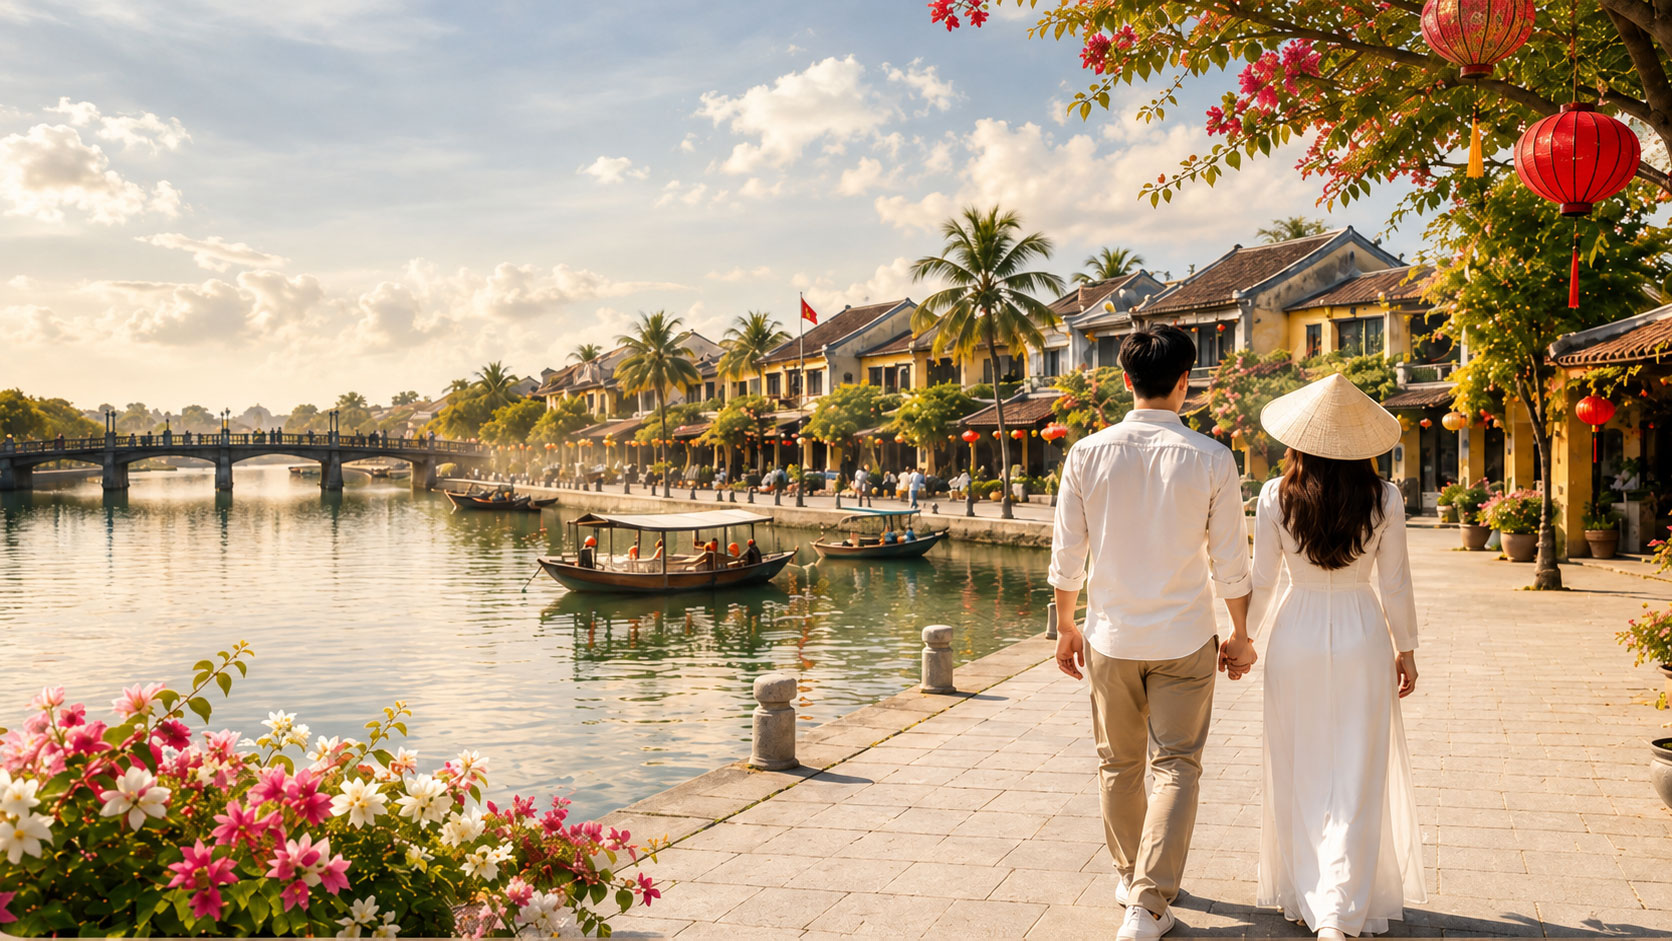
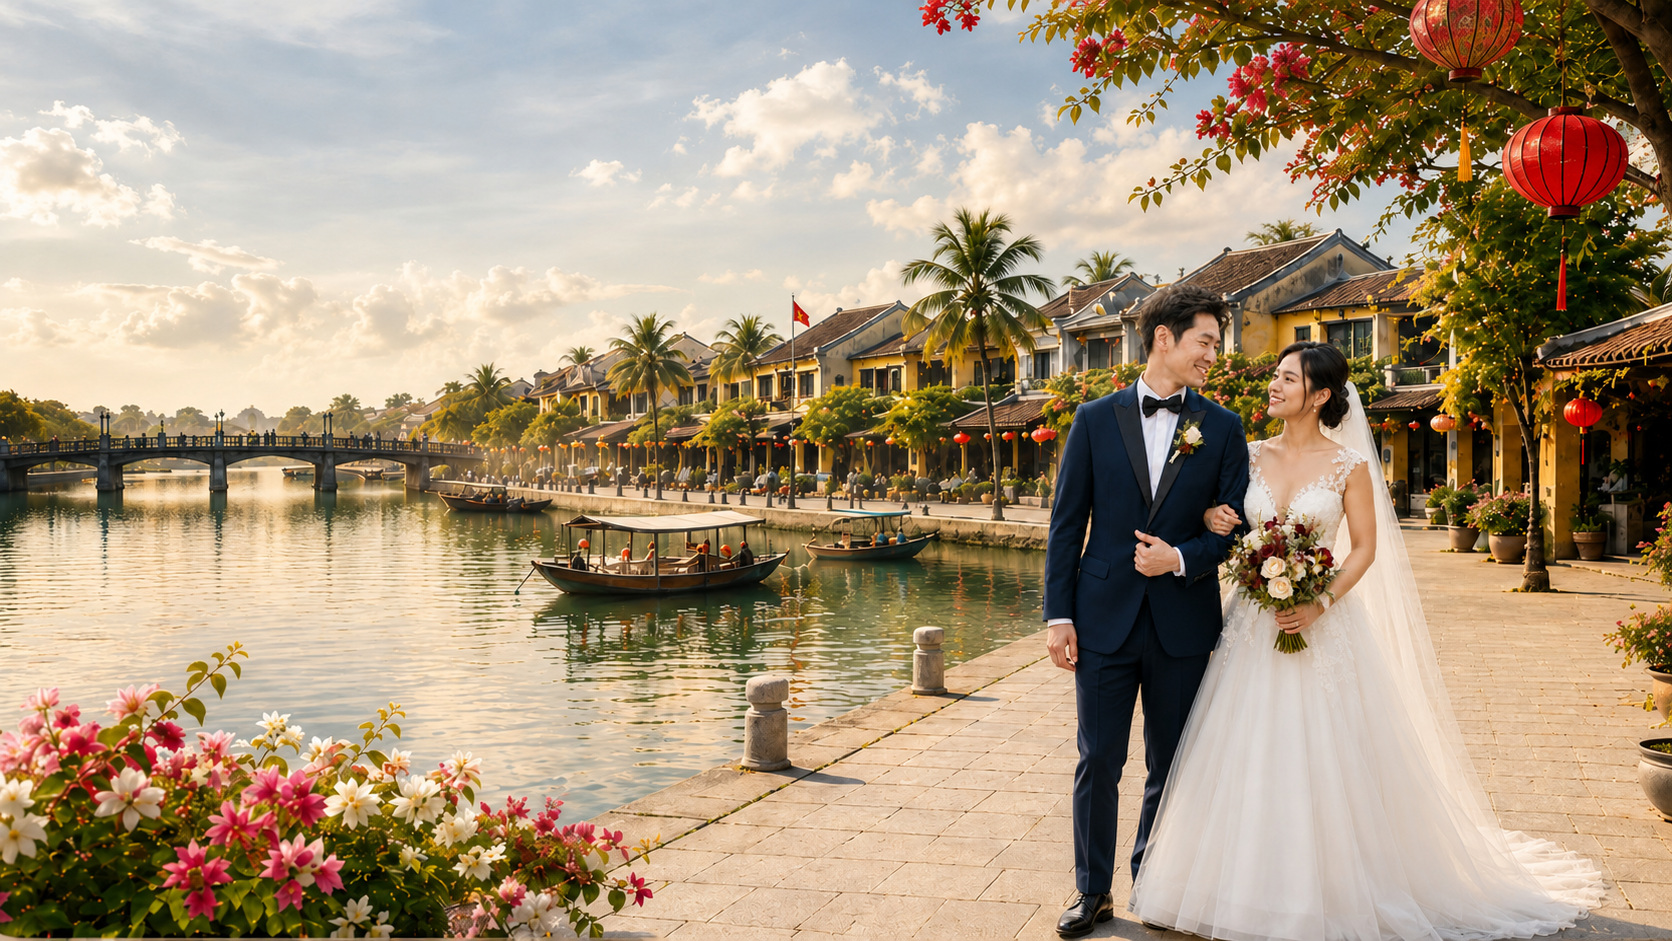
090202

diff --git a/assets/css/style.css b/assets/css/style.css
@@ -1130,3 +1130,88 @@ p { line-height:1.75; }
   .timeline article:nth-child(even) b { left:-62px; right:auto; top:11px; }
 }
 
+/* Mobile homepage hero: dedicated wedding-couple visual */
+@media (max-width: 760px) {
+  .hero {
+    min-height:690px;
+    padding:0;
+    background:#f8f1e8;
+  }
+  .hero::before {
+    inset:0;
+    left:0;
+    width:100%;
+    transform:none;
+    opacity:1;
+    background-image:url('../images/hero-main-mobile.png');
+    background-size:cover;
+    background-position:center center;
+    -webkit-mask-image:none;
+    mask-image:none;
+  }
+  .hero::after {
+    inset:0;
+    left:0;
+    width:100%;
+    transform:none;
+    background:linear-gradient(180deg,
+      rgba(255,250,245,.97) 0%,
+      rgba(255,248,242,.91) 31%,
+      rgba(255,248,242,.48) 47%,
+      rgba(255,255,255,0) 64%);
+  }
+  .hero-inner {
+    width:100%;
+    min-height:690px;
+    padding:48px 20px 28px;
+  }
+  .hero-copy {
+    display:flex;
+    flex-direction:column;
+    width:100%;
+    max-width:none;
+    min-height:614px;
+  }
+  .hero-kicker {
+    max-width:310px;
+    margin-bottom:14px;
+    gap:12px;
+    font-size:16px;
+    line-height:1.55;
+  }
+  .hero-kicker::after { width:54px; }
+  .hero h1 {
+    max-width:390px;
+    margin-bottom:18px;
+    font-size:36px;
+    line-height:1.16;
+    letter-spacing:-2.2px;
+  }
+  .hero-description {
+    max-width:390px;
+    margin-bottom:0;
+    color:#465266;
+    font-size:15px;
+    line-height:1.75;
+  }
+  .hero-description br { display:none; }
+  .hero-actions {
+    display:grid;
+    gap:10px;
+    margin-top:auto;
+  }
+  .hero-actions .btn {
+    width:100%;
+    min-height:56px;
+    border-radius:12px;
+    font-size:17px;
+  }
+  .hero-actions .btn-primary {
+    background:#8d1538;
+    box-shadow:0 12px 28px rgba(94,14,45,.22);
+  }
+  .hero-actions .btn-outline { background:rgba(255,255,255,.94); }
+  .license-badge,
+  .info-panel { display:none; }
+}
+
